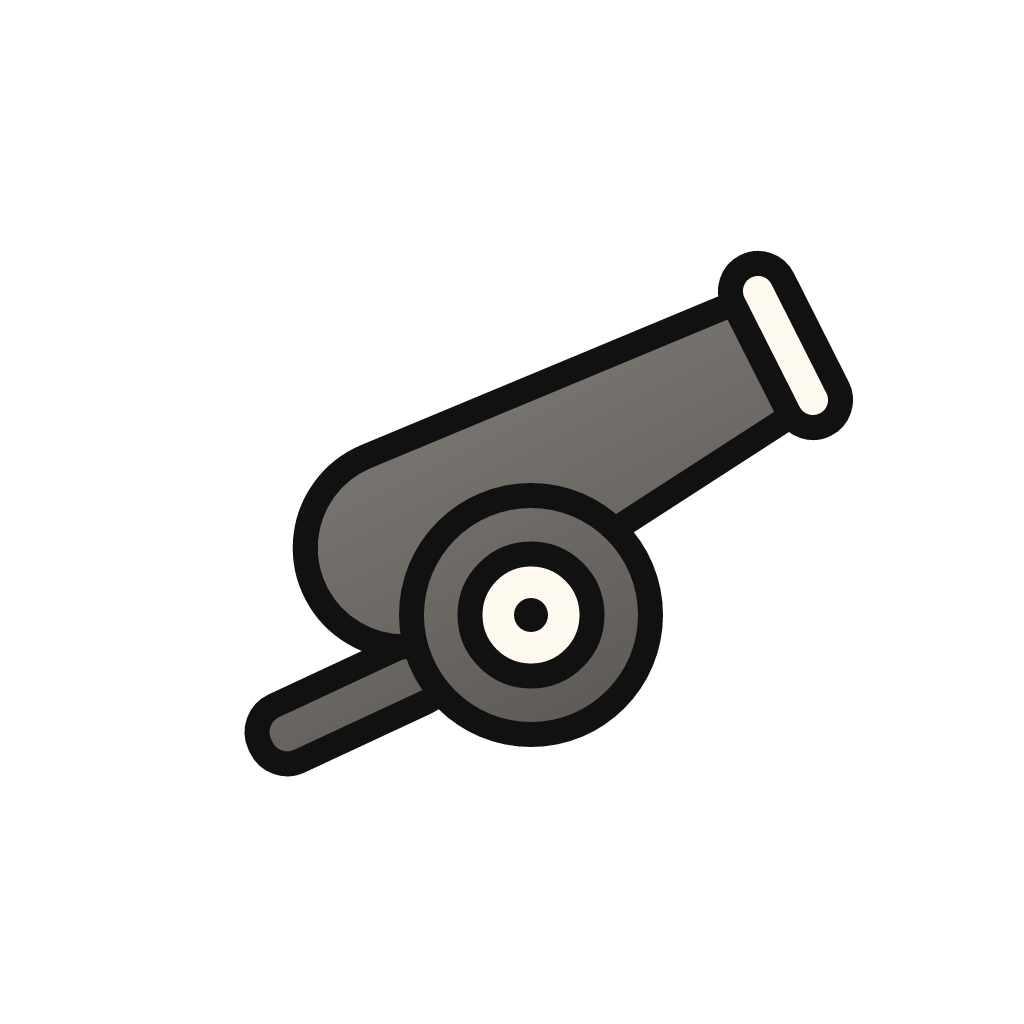
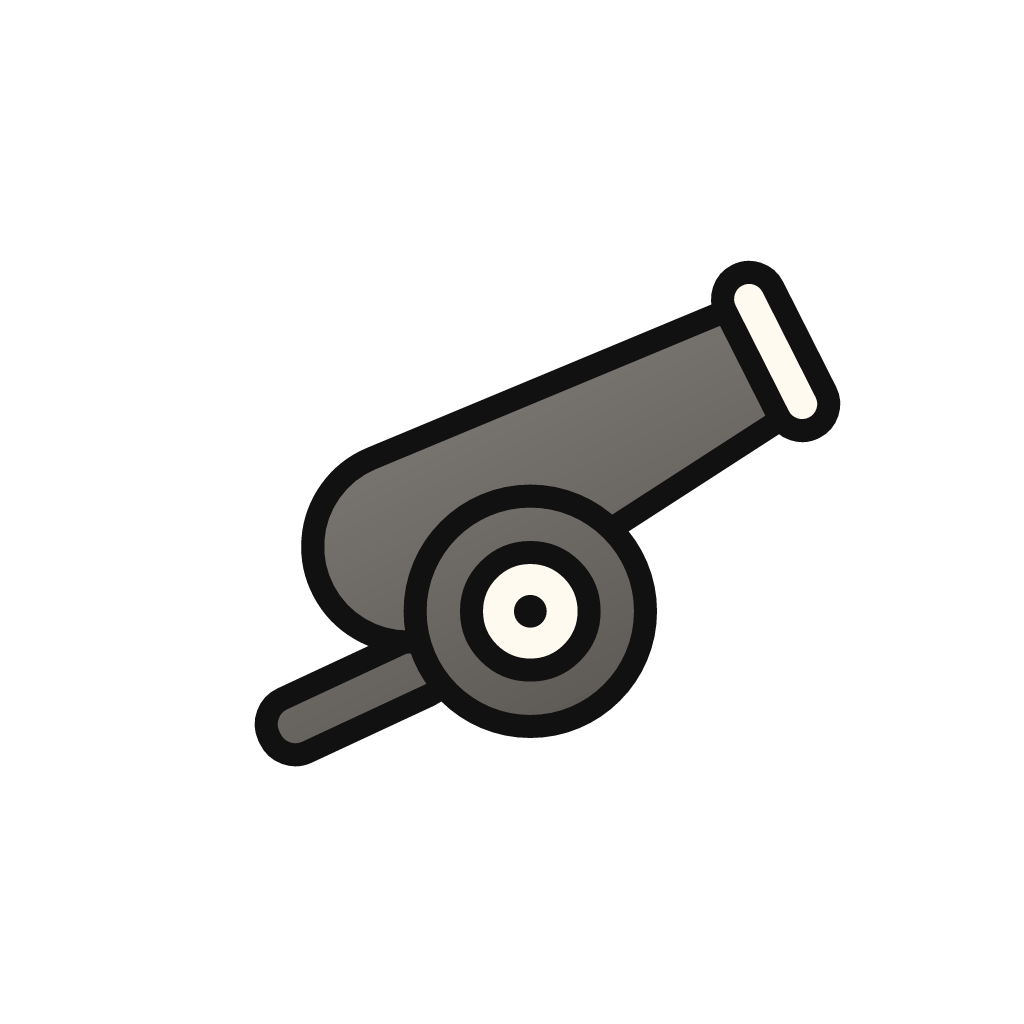
feat(pieces): draw the international disc cannon slightly smaller
Brian: the cannon is the one figure that sits closer to the disc edge than
the others. Its muzzle reached 44.2 of the disc's 46 (the ring's inner edge
is about 44.6); the general and horse reach 42.6. The figure is now drawn
3.6% smaller about the disc centre inside its unchanged 122 frame (the same
as a 117.6 frame), so the muzzle reaches 42.6.

The shrink is baked into the PNG rather than the frame because the 122
frame is copied in og-card-board.ts and two diagram generators, and the
square-board cannon (international-grid/, its own file, untouched) shares
the frame entry. Line width is set so it lands on the disc at 2.74 units
(23.05 px at 1024 in a 122 frame), matching the chariot (2.71) and advisor
(2.78). The 6a16a5ac redraw gave the cannon the same 25 px as them, which
its larger frame turned into 2.98 on the disc. Same resvg rasterise and
default pngquant as that commit (reproduces its files byte for byte).

Art to ?v=18. The share-card versions stay at their values on this branch,
which have never been served. Also brings article-og-image.test.ts to the
v=7 article card that 6a16a5ac bumped.

Lesson: when one frame value is copied into several renderers, resize a figure inside its own image instead of changing the frame, so every copy follows without an edit.
Lesson-class: graphics
Lesson-scope: code
Lesson-trigger: design-choice
Lesson-stack: python, typescript

Claude-Session: https://claude.ai/code/session_01XaYvSWgQxvFeGZFWDatEpz

Changed region(s): [[0.2188, 0.2188, 0.8438, 0.7812], [0.4062, 0.5, 0.4375, 0.5312]]

diff --git a/apps/web/src/article-og-image.test.ts b/apps/web/src/article-og-image.test.ts
@@ -5,28 +5,28 @@ const HOST = 'https://mistboard.com';
 
 describe('article card URLs', () => {
   it('og:image stays the wide card, with its ?v=', () => {
-    expect(articleOgImageUrl(HOST, 'banqi')).toBe('https://mistboard.com/og/article/banqi.png?v=6');
+    expect(articleOgImageUrl(HOST, 'banqi')).toBe('https://mistboard.com/og/article/banqi.png?v=7');
   });
 
   it('a rules page offers 16:9, 4:3 and 1:1 in its JSON-LD, widest first', () => {
     expect(articleStructuredDataImage(HOST, 'banqi')).toEqual([
-      'https://mistboard.com/og/article/banqi.png?v=6&aspect=16x9',
-      'https://mistboard.com/og/article/banqi.png?v=6&aspect=4x3',
-      'https://mistboard.com/og/article/banqi.png?v=6&aspect=1x1',
+      'https://mistboard.com/og/article/banqi.png?v=7&aspect=16x9',
+      'https://mistboard.com/og/article/banqi.png?v=7&aspect=4x3',
+      'https://mistboard.com/og/article/banqi.png?v=7&aspect=1x1',
     ]);
   });
 
   it('a blog page with no card of its own offers the site card in the same three shapes', () => {
     expect(articleStructuredDataImage(HOST, 'jieqi-platform')).toEqual([
-      'https://mistboard.com/og/article/jieqi-platform.png?v=6&aspect=16x9',
-      'https://mistboard.com/og/article/jieqi-platform.png?v=6&aspect=4x3',
-      'https://mistboard.com/og/article/jieqi-platform.png?v=6&aspect=1x1',
+      'https://mistboard.com/og/article/jieqi-platform.png?v=7&aspect=16x9',
+      'https://mistboard.com/og/article/jieqi-platform.png?v=7&aspect=4x3',
+      'https://mistboard.com/og/article/jieqi-platform.png?v=7&aspect=1x1',
     ]);
   });
 
   it('a hand-drawn card has no aspect versions, so the JSON-LD keeps the one wide card', () => {
     expect(articleStructuredDataImage(HOST, 'yin-sheng')).toBe(
-      'https://mistboard.com/og/article/yin-sheng.png?v=6',
+      'https://mistboard.com/og/article/yin-sheng.png?v=7',
     );
   });
 
@@ -37,7 +37,7 @@ describe('article card URLs', () => {
       ['zh-hant', 'zh-hant'],
     ] as const) {
       for (const slug of ['banqi', 'pikafish']) {
-        const wide = `https://mistboard.com/og/article/${slug}.png?v=6&lang=${prefix}`;
+        const wide = `https://mistboard.com/og/article/${slug}.png?v=7&lang=${prefix}`;
         expect(articleOgImageUrl(HOST, slug, lang)).toBe(wide);
         expect(articleStructuredDataImage(HOST, slug, lang)).toEqual([
           `${wide}&aspect=16x9`,
@@ -50,9 +50,9 @@ describe('article card URLs', () => {
 
   it('pikafish has a board card: aspect versions in English too', () => {
     expect(articleStructuredDataImage(HOST, 'pikafish')).toEqual([
-      'https://mistboard.com/og/article/pikafish.png?v=6&aspect=16x9',
-      'https://mistboard.com/og/article/pikafish.png?v=6&aspect=4x3',
-      'https://mistboard.com/og/article/pikafish.png?v=6&aspect=1x1',
+      'https://mistboard.com/og/article/pikafish.png?v=7&aspect=16x9',
+      'https://mistboard.com/og/article/pikafish.png?v=7&aspect=4x3',
+      'https://mistboard.com/og/article/pikafish.png?v=7&aspect=1x1',
     ]);
   });
 
@@ -60,19 +60,19 @@ describe('article card URLs', () => {
     // A bare 'zh' names no script, so it gets no zh card rather than a guess.
     for (const lang of [null, undefined, 'en', 'vi', 'zh', 'zh-TW']) {
       expect(articleOgImageUrl(HOST, 'banqi', lang)).toBe(
-        'https://mistboard.com/og/article/banqi.png?v=6',
+        'https://mistboard.com/og/article/banqi.png?v=7',
       );
     }
     expect(articleOgImageUrl(HOST, 'jungle', 'zh-Hant')).toBe(
-      'https://mistboard.com/og/article/jungle.png?v=6',
+      'https://mistboard.com/og/article/jungle.png?v=7',
     );
     expect(articleStructuredDataImage(HOST, 'jieqi-platform', 'zh-Hant')).toEqual([
-      'https://mistboard.com/og/article/jieqi-platform.png?v=6&aspect=16x9',
-      'https://mistboard.com/og/article/jieqi-platform.png?v=6&aspect=4x3',
-      'https://mistboard.com/og/article/jieqi-platform.png?v=6&aspect=1x1',
+      'https://mistboard.com/og/article/jieqi-platform.png?v=7&aspect=16x9',
+      'https://mistboard.com/og/article/jieqi-platform.png?v=7&aspect=4x3',
+      'https://mistboard.com/og/article/jieqi-platform.png?v=7&aspect=1x1',
     ]);
     expect(articleStructuredDataImage(HOST, 'yin-sheng', 'zh-Hant')).toBe(
-      'https://mistboard.com/og/article/yin-sheng.png?v=6',
+      'https://mistboard.com/og/article/yin-sheng.png?v=7',
     );
   });
 });

diff --git a/apps/web/src/xiangqi-piece-sets.test.ts b/apps/web/src/xiangqi-piece-sets.test.ts
@@ -75,8 +75,8 @@ describe('renderXiangqiPieceGlyphed', () => {
     const cannon = renderXiangqiPieceGlyphed({ color: 'black', role: 'cannon' }, 'international', {
       className: 'xq-piece',
     });
-    expect(general).toContain('/piece-sets/xiangqi/international/red-general.png?v=17');
-    expect(cannon).toContain('/piece-sets/xiangqi/international/black-cannon.png?v=17');
+    expect(general).toContain('/piece-sets/xiangqi/international/red-general.png?v=18');
+    expect(cannon).toContain('/piece-sets/xiangqi/international/black-cannon.png?v=18');
     expect(general).toContain('x="-7" y="-7" width="114" height="114"');
     expect(cannon).toContain('x="-11" y="-11" width="122" height="122"');
     expect(cannon).toContain('class="xq-piece"');
@@ -108,15 +108,15 @@ describe('renderXiangqiPieceGlyphed', () => {
     const international = renderXiangqiPieceGlyphed(piece, 'international', { crossed: true });
 
     expect(international).toContain(
-      '/piece-sets/xiangqi/international/red-crossed-soldier.png?v=17',
+      '/piece-sets/xiangqi/international/red-crossed-soldier.png?v=18',
     );
   });
 
   it('renders the international Fortress treasure from the generated cutout art', () => {
     const red = internationalTreasureMarks('red');
     const black = internationalTreasureMarks('black');
-    expect(red).toContain('/piece-sets/xiangqi/international/red-treasure.png?v=17');
-    expect(black).toContain('/piece-sets/xiangqi/international/black-treasure.png?v=17');
+    expect(red).toContain('/piece-sets/xiangqi/international/red-treasure.png?v=18');
+    expect(black).toContain('/piece-sets/xiangqi/international/black-treasure.png?v=18');
     // Two units below the other 114-unit figures: the diamond is top-heavy.
     expect(red).toContain('x="-7" y="-5" width="114" height="114"');
     expect(red).toContain('fill="#fef0d7"');

diff --git a/apps/web/src/xiangqi-piece-sets.ts b/apps/web/src/xiangqi-piece-sets.ts
@@ -595,7 +595,10 @@ const ANIMAL_ART_VERSION = 4;
 // 43, ivory tusks and advisor neck band, cannon turned 15 degrees.
 // 17 (2026-10-15): smooth edges. Chariot, advisor and cannon redrawn from geometry
 // at one line width; the curved figures re-traced with the wobble smoothed out.
-const INTERNATIONAL_ART_VERSION = 17;
+// 18 (2026-10-15): the disc cannon drawn 3.6% smaller inside its 122 frame (the
+// muzzle reached 44.2 of the disc's 46, now 42.6 like the general and horse), its
+// line 23 px at 1024 so it lands on the disc at 2.74, with the chariot and advisor.
+const INTERNATIONAL_ART_VERSION = 18;
 
 // On the square grid the cannon has a figure of its own (international-grid/):
 // turned 17 degrees and 6% bigger, so it clears the square's inner edge. Every

diff --git a/apps/web/src/xiangqi-pieces.test.ts b/apps/web/src/xiangqi-pieces.test.ts
@@ -71,7 +71,7 @@ describe('xiangqi piece sprites', () => {
       { color: 'red', role: 'general' },
       { pieceSet: 'international' },
     );
-    expect(svg).toContain('/piece-sets/xiangqi/international/red-general.png?v=17');
+    expect(svg).toContain('/piece-sets/xiangqi/international/red-general.png?v=18');
     // One dark ring on both sides (2026-10-14).
     expect(svg).toContain('stroke="#202427"');
     expect(svg).not.toContain(XIANGQI_GLYPH_PATHS.帥);
